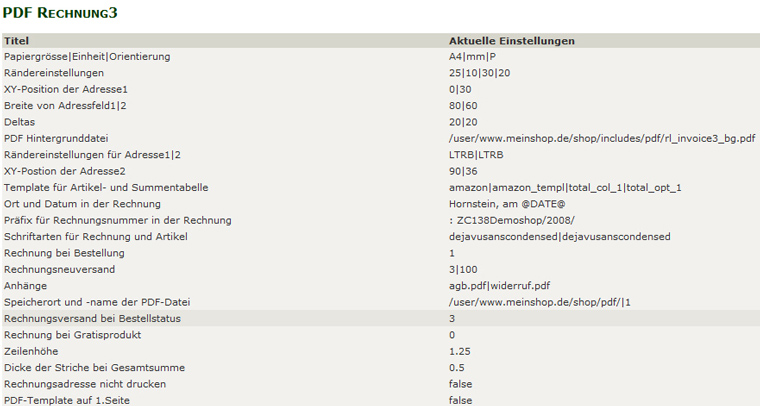
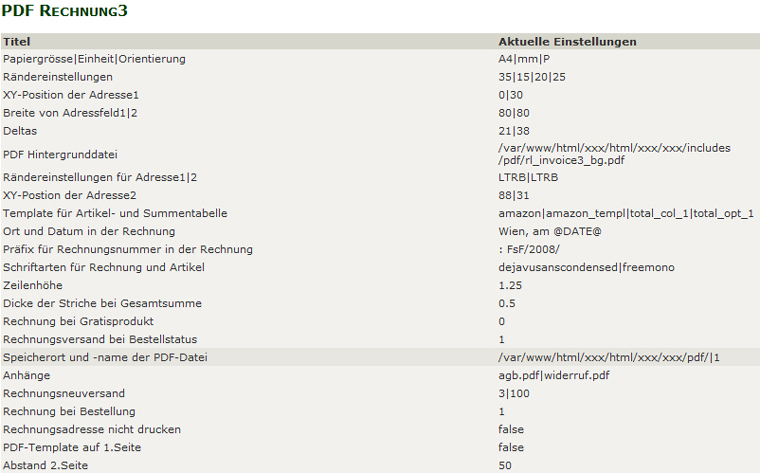
rl_invoice3: Doku ergaenzt

Changed region(s): [[0.0, 0.0, 1.0, 1.0], [0.575, 0.6502, 0.9382, 0.8571], [0.575, 0.8571, 0.6961, 1.0]]

diff --git a/zc138_addon/MIN/rl_invoice3/docs/rl_invoice3/konfiguration.html b/zc138_addon/MIN/rl_invoice3/docs/rl_invoice3/konfiguration.html
@@ -61,10 +61,10 @@ agb.pdf</p>
     Erstelle dann wieder eine pdf Rechnung und prüfe das Ergebnis.</p>
 <p>Falls Dir keine der Schriften zusagt, ist es möglich eigene Schriftarten zu verwenden. Das ist allerdings nur für versierte User empfohlen, da die Schriften zuerst in mehreren Verfahren konvertiert werden müssen. Ein Anleitung dazu ist in den <a href="faq.html">FAQ </a>zu finden.<br />
 </p>
-<p><strong>4)<br /> 
-  Restliche Einstellungen vornehmen</strong></p>
+<p><b>4)<br /> 
+  Restliche Einstellungen vornehmen</strong> unter Konfiguration &gt; PDF Rechnung 3</b></p>
 <p>Die übrigen Konfigurationsmöglichkeiten unter Konfiguration &gt; PDF Rechnung 3 sind immer erklärt, wenn Du auf Bearbeiten clickst:</p>
-<p><img src="graphics/admin.jpg" alt="pdf Rechnung im Admin" width="760" height="406" /></p>
+<p><img src="graphics/admin.jpg" alt="pdf Rechnung im Admin" width="760" height="473" /></p>
 <p>Hier ein paar Erläuterungen zu den wichtigsten Möglichkeiten:</p>
 <p><strong>PDF Hintergrunddatei</strong><br/> 
   Falls Du den Dateinamen Deiner Vorlage geändert hast, musst Du hier von rl_invoice3_bg.pdf aud Deinen Dateinamen für die Rechnungsvorlage ändern. Es ist der absolute Pfad zur Vorlage anzugeben. Die pdf Rechnung unterstützt unterschiedliche Vorlagen für deutsch und englisch. Wenn Du englisch im Shop aktiv hast und für englischsprachige Kunden eine eigene Vorlage verwenden willst, wechsle in den englischen Admin und trage dann hier den Pfad zu Deiner englischen Vorlage ein. Als Beispiel wird die includes/pdf/rl_invoice3_bg_en.pdf mitgeliefert.
@@ -93,6 +93,9 @@ Hier wird eingestellt, ob die pdf Rechnung überhaupt am Server gespeichert werd
   Die Rechnung kann dann trotzdem vom Kunden in seiner Bestellhistory heruntergeladen werden. Wichtig ist, dass unter Konfiguration &gt; GZip Komprimierung die gZip Komprimierung NICHT eingeschaltet ist!</p>
 <p><strong>PDF Template auf erster Seite</strong><br />
 Wenn zahlreiche Artikel bestellt werden und die auf der Rechnung nicht auf einer Seite Platz haben, erfolgt ein Seitenumbruch mit Berechnung einer Zwischensumme und Übertrags auf die zweite Seite. Hier kannst Du einstellen, ob der Rechnungsfooter auch auf der zweiten Seite erscheinen soll.</p>
+<p><strong>Abstand 2.Seite</strong><br/> 
+  Hier kannst Du für die Anzeige des Übertrags auf der zweiten Seite einen zusätzlichen Abstand einstellen.
+</p>
 <p><strong>Template für Artikel- und Summentabelle</strong><br/>
   Definiert sind die Templates in folgender Datei:<br />
   includes/pdf/rl_invoice3_def.php
@@ -136,7 +139,19 @@ $optionsP['amazon_templ'] = array(&quot;subtotal&quot;=&gt;'subtotalE', <br />
     admin/rl_invoice3.php?oID=3&amp;test=PDF<br />
     Es wird dann eine Testrechnung mit allen verschiedenen Templates  produziert (ohne Summen).
   </p>
-</div>
+  <p><b>5) Weitere Möglichkeiten unter Tools &gt; PDF Rechnung 3</b></p>
+   <p>Einige mächtige Tools sind im Admin unter Tools &gt; PDF Rechnung 3 verfügbar:<br />
+     <br />
+     Click auf Admin liefert 3 Optionen:<br />
+     <br />
+     <img src="graphics/tools_admin.jpg" width="525" height="100" alt="Tools &gt; PDF Rechnung 3 &gt; Admin" /><br />
+     Ähnlich wie beim Image Handler können mit &quot;<b>remove</b>&quot; alle Einträge der PDF Rechnung aus der Datenbank entfernt werden. Mit &quot;<b>install</b>&quot; werden sie wieder hinzugefügt.<br />
+     <br />
+     Mit &quot;<b>check paths</b>&quot; lässt sich überprüfen, ob die in der Datenbank gesetzten Pfadangaben mit den Pfadangaben, die eventuell in der includes/pdf/rl_invoice3_def.php bei den einzelnen Templates gemacht wurden, übereinstimmen
+   </p>
+   <p>Unter "<b>Rechnungsvorlage</b>" hat man einen visuellen Editor zur Gestaltung seiner Rechnung zur Verfügung. Die aktuellen unter Konfiguration &gt; pdf Rechnung 3 eingestellten Werte werden ausgelesen und können durch Ziehen der Felder mit der Maus verändert und visualisiert werden. Änderungen werden dann mit dem Button &quot;Senden&quot; übernommen.</p>
+   <p>&quot;<b>Schrifttest</b>&quot; liefert ein Beispiel-PDF mit den verschiedenen verfügbaren Schriftarten. Und mit &quot;<b>Rechnungstest</b>&quot; erhält man eine Vorschau der verschiedenen Spaltendefinitionen in den verschiedenen Rechnungstemplates.</p>
+  </div>
 </div>
 <div id="footer"><a href="#">top of page</a></div>
 </body>
